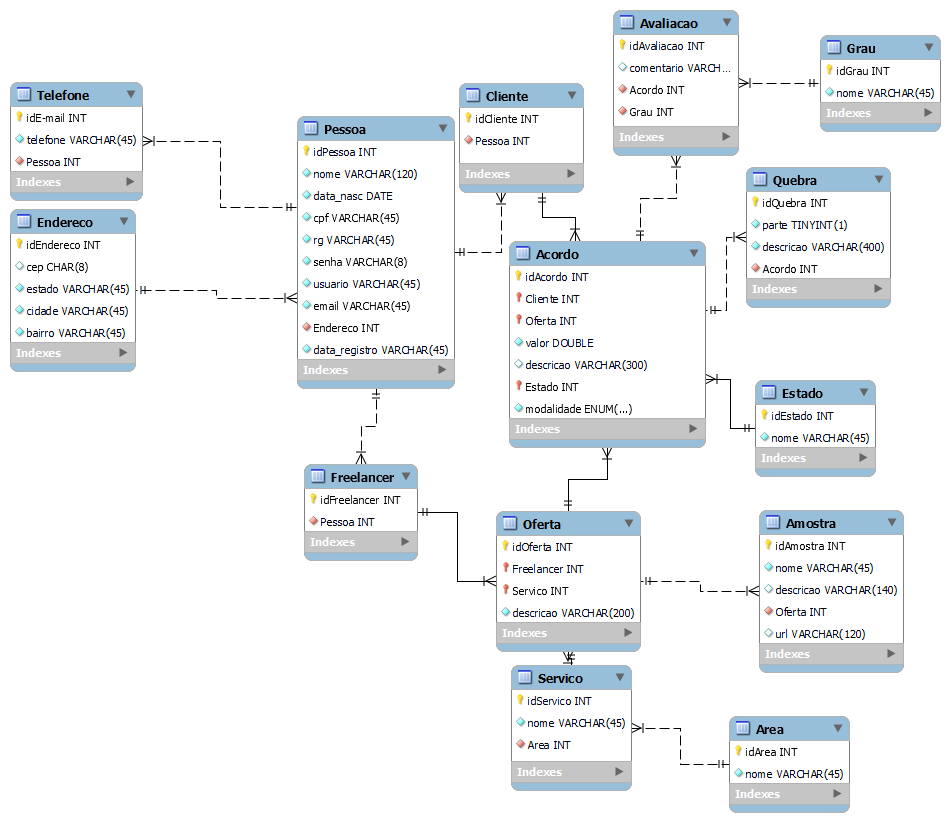
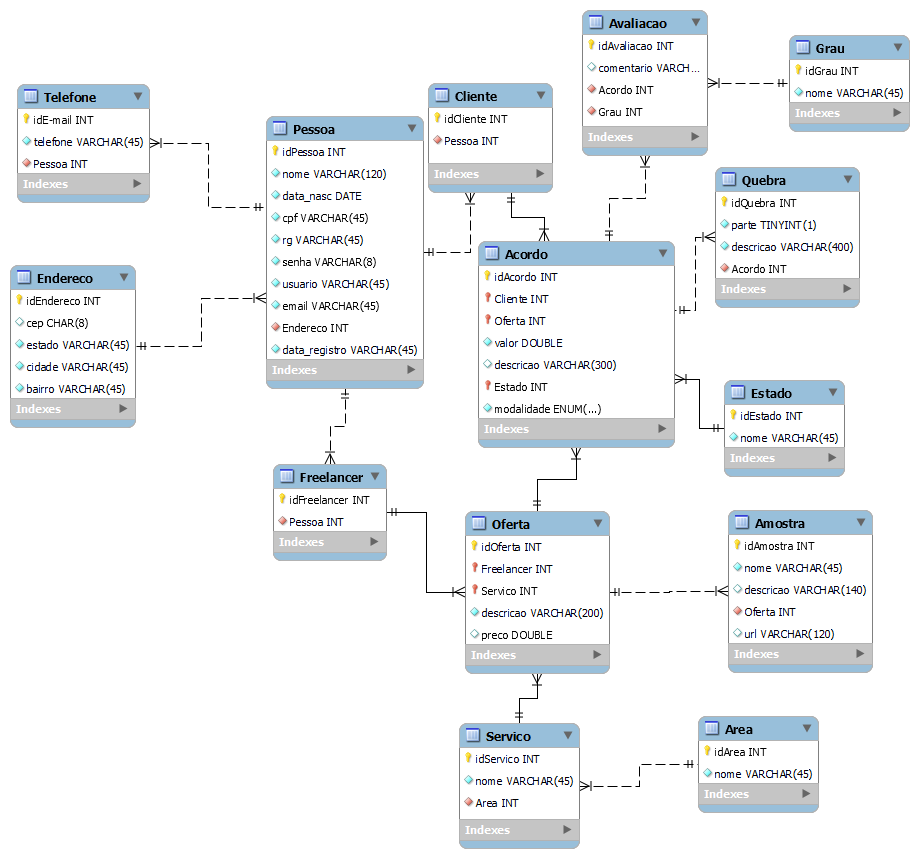
default de preco nas ofertas do freelancer

diff --git a/docs/freelancer.md b/docs/freelancer.md
@@ -7,7 +7,7 @@
 ### CREATE FREELANCER REQUEST
 
 ```js
-POST /freelancer;
+POST / freelancer;
 ```
 
 ```json
@@ -26,13 +26,14 @@ POST /freelancer;
     "Bairro": "Pequi"
   },
   "Oferta": [
-    { "Confeitaria": null },
+    { "Confeitaria": null, "preco": 0 },
     {
       "Salgados": {
         "nome": "Salgados da festa do prefeito",
         "descricao": "Nesta página consta os links dos salgados feitos para a festa do prefeito!!!",
         "url": "https://app.jotaja.com/salgados.com"
-      }
+      },
+      "preco": 250.0
     }
   ]
 }
@@ -65,13 +66,14 @@ Location: {{host}}/freelancer/{id}
     "Bairro": "Pequi"
   },
   "Oferta": [
-    { "Confeitaria": null },
+    { "Confeitaria": null, "preco": 0 },
     {
       "Salgados": {
         "nome": "Salgados da festa do prefeito",
         "descricao": "Nesta página consta os links dos salgados feitos para a festa do prefeito!!!",
         "url": "https://app.jotaja.com/salgados.com"
-      }
+      },
+      "preco": 250.0
     }
   ]
 }
@@ -111,13 +113,14 @@ GET /freelancer?data_resgis={{data_regis}}&oferta={{oferta1}},{{oferta2}}
             "Bairro": "Pequi"
         },
         "Oferta": [
-            { "Confeitaria": null },
+            { "Confeitaria": null, "preco": 0 },
             {
-            "Salgados": {
-                "nome": "Salgados da festa do prefeito",
-                "descricao": "Nesta página consta os links dos salgados feitos para a festa do prefeito!!!",
-                "url": "https://app.jotaja.com/salgados.com"
-            }
+                "Salgados": {
+                    "nome": "Salgados da festa do prefeito",
+                    "descricao": "Nesta página consta os links dos salgados feitos para a festa do prefeito!!!",
+                    "url": "https://app.jotaja.com/salgados.com"
+                },
+            "preco": 250.00
             }
         ]
         }
@@ -157,13 +160,14 @@ GET /freelancer?data_resgis={{data_regis}}&oferta={{oferta1}},{{oferta2}}
             "Bairro": "Pequi"
         },
         "Oferta": [
-            {"Confeitaria": null},
+            { "Confeitaria": null, "preco": 0 },
             {
                 "Salgados": {
                     "nome": "Salgados da festa do prefeito",
                     "descricao": "Nesta página consta os links dos salgados feitos para a festa do prefeito!!!",
                     "url": "https://app.jotaja.com/salgados.com"
-                }
+                },
+            "preco": 250.00
             }
         ]
         }
@@ -196,13 +200,14 @@ PUT /freelancer/{{id}}
     "Bairro": "Pequi"
   },
   "Oferta": [
-    { "Confeitaria": null },
+    { "Confeitaria": null, "preco": 0 },
     {
       "Salgados": {
         "nome": "Salgados da festa do prefeito",
         "descricao": "Nesta página consta os links dos salgados feitos para a festa do prefeito!!!",
         "url": "https://app.jotaja.com/salgados.com"
-      }
+      },
+      "preco": 250.0
     }
   ]
 }
@@ -237,13 +242,14 @@ ou
     "Bairro": "Pequi"
   },
   "Oferta": [
-    { "Confeitaria": null },
+    { "Confeitaria": null, "preco": 0 },
     {
       "Salgados": {
         "nome": "Salgados da festa do prefeito",
         "descricao": "Nesta página consta os links dos salgados feitos para a festa do prefeito!!!",
         "url": "https://app.jotaja.com/salgados.com"
-      }
+      },
+      "preco": 250.0
     }
   ]
 }

diff --git a/docs/acordo.md b/docs/acordo.md
@@ -1,0 +1,10 @@
+# 1CORRE.API.ACORDO
+
+## CREATE ACORDO
+
+### CREATE ACORDO REQUEST
+
+```js
+POST /acordo
+```
+
